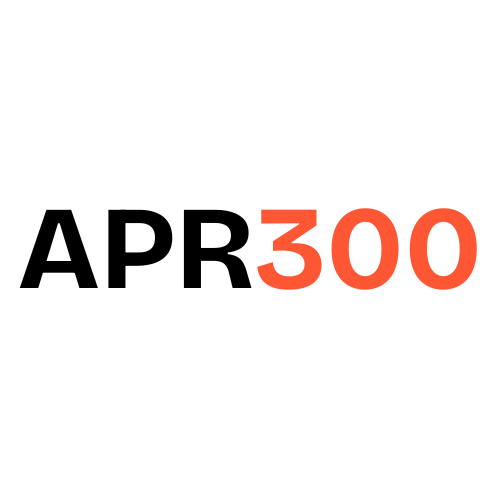
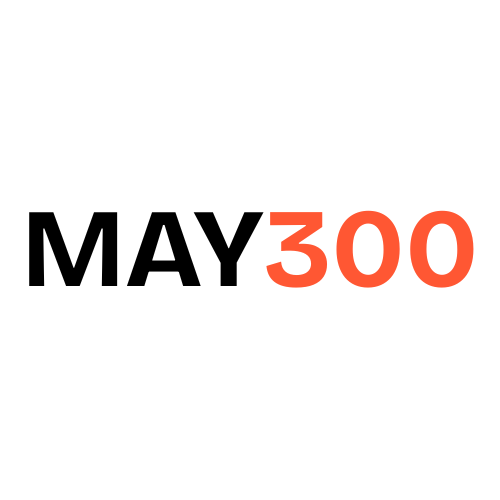
Account popup (jipange)

Changed region(s): [[0.03, 0.39, 0.84, 0.6], [0.84, 0.39, 0.96, 0.6]]

diff --git a/src/landing-pg/LandingPg.js b/src/landing-pg/LandingPg.js
@@ -3707,7 +3707,7 @@ const Styles = styled.div `
     max-height: 15.225rem;
     overflow: hidden;
     overflow-y: auto;
-    padding-top: 0.05rem;
+    padding-top: 0.15rem;
 }
 
 .jipange-settings-selected-date-screen-complete-body-inner-body-airtel-payment-details p {
@@ -3722,7 +3722,7 @@ const Styles = styled.div `
 
 .jipange-settings-selected-date-screen-complete-body-inner-body-footer {
     position: absolute;
-    bottom: -0.315rem;
+    bottom: -0.36rem;
     // border: 1px solid black;
     width: 100%;
     height: 9rem;
@@ -3789,6 +3789,25 @@ const Styles = styled.div `
 }
 
 .jipange-settings-selected-date-screen-complete-body-inner-body-footer-btn button {
+    width: 100%;
+    height: 100%;
+    color: white;
+    background-color: #ff5733;
+    border: 1px solid #ff5733;
+    border-radius: 8px;
+    font-family: poppins;
+    font-size: 85%;
+    cursor: pointer;
+}   
+
+.jipange-settings-selected-date-screen-complete-body-inner-body-footer-btn-2 {
+    height: 32.5%;
+    // border: 1px solid black;
+    margin-top: 0.85rem;
+    margin-left: 2.5%;
+}
+
+.jipange-settings-selected-date-screen-complete-body-inner-body-footer-btn-2 button {
     width: 100%;
     height: 100%;
     color: white;
@@ -5141,7 +5160,7 @@ const Styles = styled.div `
 }
 
 .my-orders-payment-home-page-header-inner-header-left {
-    width: 80%;
+    width: 60%;
     // border: 1px solid black;
     position: relative;
 }
@@ -5160,8 +5179,10 @@ const Styles = styled.div `
 }
 
 .my-orders-payment-home-page-header-inner-header-right { 
-    width: 25%;
-    // border: 1px solid black;
+    width: 40%;
+    border: 1px solid black;
+    display: flex;
+    flex-direction: row;
 }
 
 .my-orders-payment-home-page-header-inner-body {
@@ -11389,7 +11410,7 @@ export default class LandingPg extends Component {
                 { id: 3, name: 'Get Ksh. 250 off your first order with tuShop wallet.', oldPrice: 205.00, newPrice: 'MAX250', type: 'code', description: '', qty: 0, promoParams: 'No expiry', img: '/assets/images/codes/promoCode2.png'},
                 { id: 5, name: 'Bio Salted Artisanal Butter (500g)', oldPrice: 879.00, newPrice: 850.00, type: 'product', description: '', qty: 0, img: '/assets/images/products/butter-product.png'},
                 { id: 10, name: 'Tushop Fresh Local Watermelon', oldPrice: 369.00, newPrice: 320.00, type: 'product', description: '', qty: 0, img: '/assets/images/products/watermelon-product.webp'},
-                { id: 6, name: 'Get Ksh. 300 off orders over Ksh. 1999.', oldPrice: 205.00, newPrice: 'APR300', type: 'code', description: '', qty: 0, promoParams: 'Valid till 30/04/25', img: '/assets/images/codes/promoCode1.png'},
+                { id: 6, name: 'Get Ksh. 300 off orders over Ksh. 1999.', oldPrice: 205.00, newPrice: 'MAY300', type: 'code', description: '', qty: 0, promoParams: 'Valid till 30/05/25', img: '/assets/images/codes/promoCode1.png'},
               ],
             selectedPromoType: 'all',
             
@@ -16898,7 +16919,7 @@ export default class LandingPg extends Component {
                                                                                             <h4><strong>Kshs. {this.state.jipangeSelectedDateTotal + 99}.00</strong></h4>
                                                                                         </div>
                                                                                     </div>
-                                                                                    <div className='jipange-settings-selected-date-screen-complete-body-inner-body-footer-btn'>
+                                                                                    <div className='jipange-settings-selected-date-screen-complete-body-inner-body-footer-btn-2'>
                                                                                         <button
                                                                                         onClick={() => this.jipangeHandlePaymentConfirmed('Card')}
                                                                                         >
@@ -16974,7 +16995,7 @@ export default class LandingPg extends Component {
                                                                                             <h4><strong>Kshs. {this.state.jipangeSelectedDateTotal + 99}.00</strong></h4>
                                                                                         </div>
                                                                                     </div>
-                                                                                    <div className='jipange-settings-selected-date-screen-complete-body-inner-body-footer-btn'>
+                                                                                    <div className='jipange-settings-selected-date-screen-complete-body-inner-body-footer-btn-2'>
                                                                                         <button
                                                                                         onClick={() => this.jipangeHandlePaymentConfirmed('Mpesa')}
                                                                                         >
@@ -17057,7 +17078,7 @@ export default class LandingPg extends Component {
                                                                                             <h4><strong>Kshs. {this.state.jipangeSelectedDateTotal + 99}.00</strong></h4>
                                                                                         </div>
                                                                                     </div>
-                                                                                    <div className='jipange-settings-selected-date-screen-complete-body-inner-body-footer-btn'>
+                                                                                    <div className='jipange-settings-selected-date-screen-complete-body-inner-body-footer-btn-2'>
                                                                                         <button
                                                                                         onClick={() => this.jipangeHandlePaymentConfirmed('Airtel')}
                                                                                         >
